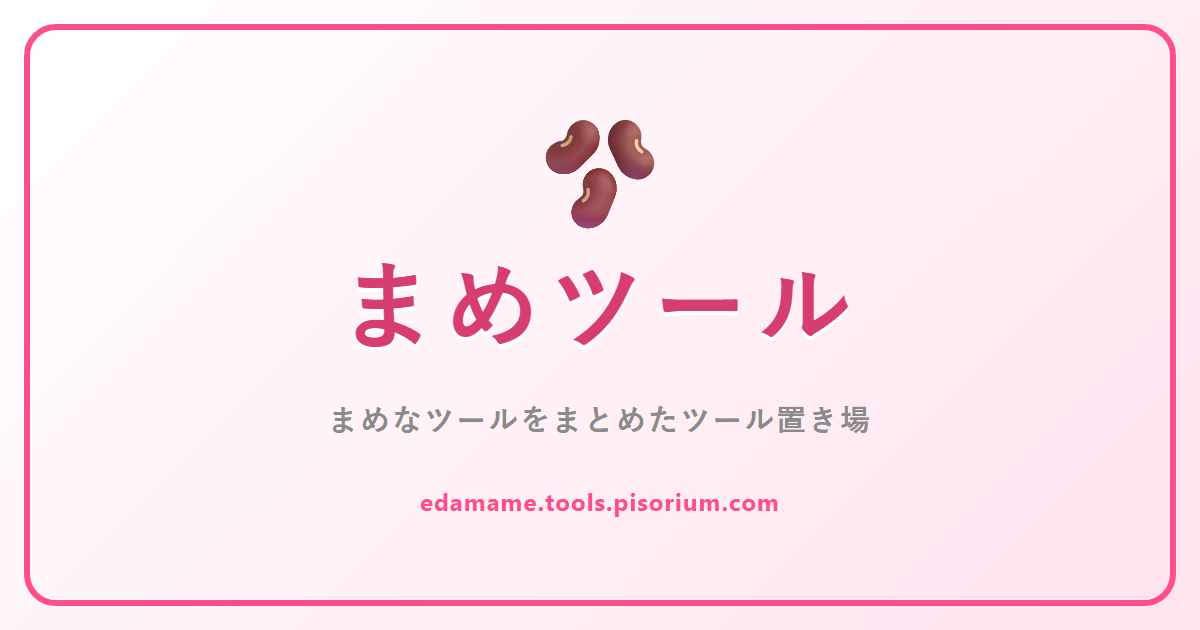
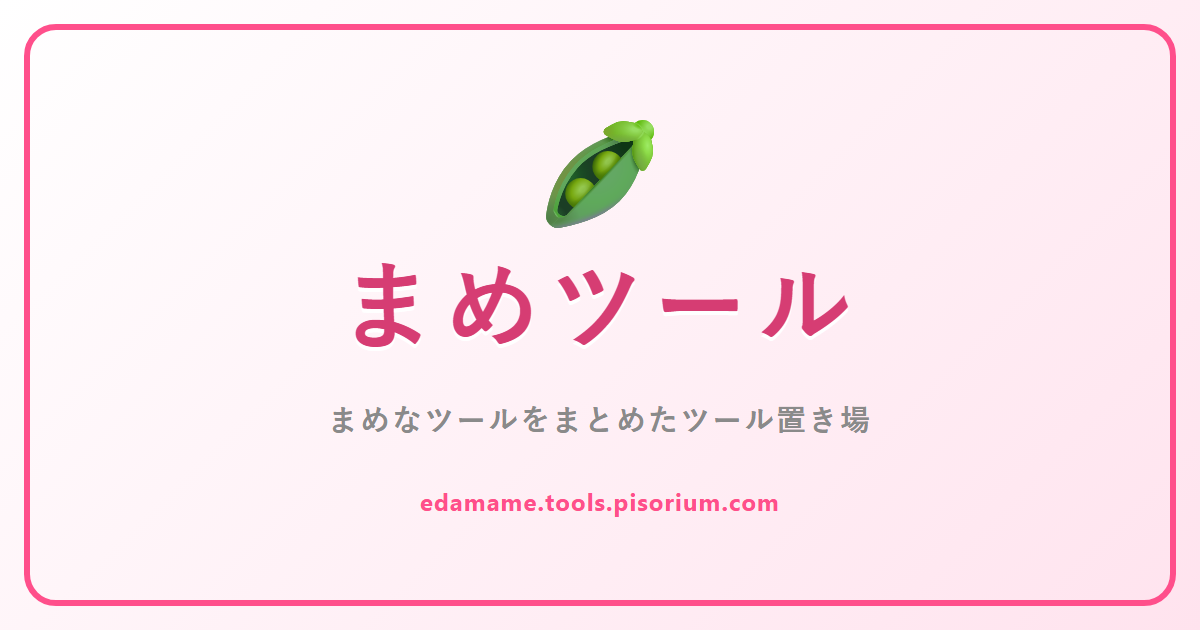
Improve mobile layout, disable pinch-zoom, restyle share image
- Hub bean icon changed to edamame (was a generic bean emoji).
- Disable pinch-zoom on mobile via viewport meta.
- Fix awkward mid-word wrapping on mobile: role composition icons
  now shrink to fit one row, and character names/placeholders
  truncate with ellipsis instead of wrapping.
- Result badge now shows job name then icon with a fixed width, so
  the icon/settings/clear buttons stay aligned across rows regardless
  of job name length (previously shifted per row).
- Removed the share text/title from the Web Share call.
- Redesigned the shareable result image: gradient background, card
  with shadow/border, role-colored accent per row, rounded job icons,
  higher resolution.

Changed region(s): [[0.4317, 0.181, 0.555, 0.3619]]

diff --git a/job-gacha/public/job-gacha/js/share.js b/job-gacha/public/job-gacha/js/share.js
@@ -9,64 +9,135 @@ function loadImage(src) {
   });
 }
 
+function roundedRectPath(ctx, x, y, w, h, r) {
+  ctx.beginPath();
+  ctx.moveTo(x + r, y);
+  ctx.arcTo(x + w, y, x + w, y + h, r);
+  ctx.arcTo(x + w, y + h, x, y + h, r);
+  ctx.arcTo(x, y + h, x, y, r);
+  ctx.arcTo(x, y, x + w, y, r);
+  ctx.closePath();
+}
+
+function drawRoundedImage(ctx, img, x, y, size, r) {
+  ctx.save();
+  roundedRectPath(ctx, x, y, size, size, r);
+  ctx.clip();
+  ctx.drawImage(img, x, y, size, size);
+  ctx.restore();
+}
+
+const ROLE_ACCENT = {
+  [ROLE.TANK]: "#3d7fd1",
+  [ROLE.HEALER]: "#45b26b",
+  [ROLE.DPS]: "#e14c5a",
+};
+
 async function buildResultCanvas(entries) {
-  const rowHeight = 64;
-  const paddingX = 32;
-  const headerHeight = 90;
-  const footerHeight = 44;
-  const width = 640;
-  const height = headerHeight + entries.length * rowHeight + footerHeight;
+  const scale = 2; // 高解像度化
+  const rowHeight = 76;
+  const cardPaddingX = 36;
+  const cardHeaderHeight = 110;
+  const cardFooterHeight = 56;
+  const margin = 28;
+  const width = 760;
+  const cardHeight = cardHeaderHeight + entries.length * rowHeight + cardFooterHeight;
+  const height = cardHeight + margin * 2;
 
   const canvas = document.createElement("canvas");
-  canvas.width = width;
-  canvas.height = height;
+  canvas.width = width * scale;
+  canvas.height = height * scale;
+  canvas.style.width = `${width}px`;
+  canvas.style.height = `${height}px`;
   const ctx = canvas.getContext("2d");
+  ctx.scale(scale, scale);
 
-  // 背景
-  ctx.fillStyle = "#fffafc";
+  // 背景(斜めグラデーション)
+  const bgGradient = ctx.createLinearGradient(0, 0, width, height);
+  bgGradient.addColorStop(0, "#ffffff");
+  bgGradient.addColorStop(1, "#ffe3ee");
+  ctx.fillStyle = bgGradient;
   ctx.fillRect(0, 0, width, height);
 
-  // ヘッダー
-  ctx.fillStyle = "#ff4f8b";
-  ctx.fillRect(0, 0, width, headerHeight);
+  // カード(白背景+ピンク枠、影付き)
+  const cardX = margin;
+  const cardY = margin;
+  const cardW = width - margin * 2;
+
+  ctx.save();
+  ctx.shadowColor = "rgba(255, 79, 139, 0.25)";
+  ctx.shadowBlur = 24;
+  ctx.shadowOffsetY = 8;
+  roundedRectPath(ctx, cardX, cardY, cardW, cardHeight, 28);
   ctx.fillStyle = "#ffffff";
-  ctx.font = "bold 28px sans-serif";
-  ctx.textBaseline = "middle";
-  ctx.fillText("ジョブガチャ 結果", paddingX, headerHeight / 2);
+  ctx.fill();
+  ctx.restore();
+
+  roundedRectPath(ctx, cardX, cardY, cardW, cardHeight, 28);
+  ctx.lineWidth = 3;
+  ctx.strokeStyle = "#ff4f8b";
+  ctx.stroke();
+
+  // ヘッダー
+  ctx.fillStyle = "#d63d73";
+  ctx.font = "bold 34px sans-serif";
+  ctx.textBaseline = "alphabetic";
+  ctx.fillText("🎲 ジョブガチャ 抽選結果", cardX + cardPaddingX, cardY + 56);
+
+  ctx.strokeStyle = "#ffe3ee";
+  ctx.lineWidth = 2;
+  ctx.beginPath();
+  ctx.moveTo(cardX + cardPaddingX, cardY + cardHeaderHeight - 12);
+  ctx.lineTo(cardX + cardW - cardPaddingX, cardY + cardHeaderHeight - 12);
+  ctx.stroke();
 
   const jobIcons = await Promise.all(
     entries.map((e) => loadImage(jobIconUrl(e.job.id)).catch(() => null))
   );
 
   entries.forEach((entry, i) => {
-    const y = headerHeight + i * rowHeight;
-    ctx.strokeStyle = "#ffe3ee";
-    ctx.lineWidth = 1;
-    ctx.beginPath();
-    ctx.moveTo(paddingX, y);
-    ctx.lineTo(width - paddingX, y);
-    ctx.stroke();
+    const rowY = cardY + cardHeaderHeight + i * rowHeight;
+    const rowCenterY = rowY + rowHeight / 2;
 
-    const iconSize = 40;
-    const iconY = y + (rowHeight - iconSize) / 2;
+    // ロールカラーのアクセントバー
+    const accent = ROLE_ACCENT[entry.job.role] || "#c9c9c9";
+    ctx.fillStyle = accent;
+    roundedRectPath(ctx, cardX + cardPaddingX, rowY + 14, 5, rowHeight - 28, 3);
+    ctx.fill();
+
+    const iconSize = 48;
+    const iconX = cardX + cardPaddingX + 20;
+    const iconY = rowCenterY - iconSize / 2;
     const icon = jobIcons[i];
     if (icon) {
-      ctx.drawImage(icon, paddingX, iconY, iconSize, iconSize);
+      drawRoundedImage(ctx, icon, iconX, iconY, iconSize, 12);
     }
 
+    const textX = iconX + iconSize + 18;
     ctx.fillStyle = "#2b2b2b";
-    ctx.font = "bold 18px sans-serif";
-    ctx.fillText(entry.character.name, paddingX + iconSize + 16, y + rowHeight / 2 - 12);
+    ctx.font = "bold 20px sans-serif";
+    ctx.fillText(entry.character.name, textX, rowCenterY - 4);
 
     ctx.fillStyle = "#8a8a8a";
-    ctx.font = "14px sans-serif";
-    ctx.fillText(`${entry.job.id} ${entry.job.nameJa}`, paddingX + iconSize + 16, y + rowHeight / 2 + 12);
+    ctx.font = "15px sans-serif";
+    ctx.fillText(entry.job.nameJa, textX, rowCenterY + 20);
+
+    if (i < entries.length - 1) {
+      ctx.strokeStyle = "#fbeef4";
+      ctx.lineWidth = 1;
+      ctx.beginPath();
+      ctx.moveTo(cardX + cardPaddingX, rowY + rowHeight);
+      ctx.lineTo(cardX + cardW - cardPaddingX, rowY + rowHeight);
+      ctx.stroke();
+    }
   });
 
-  ctx.fillStyle = "#8a8a8a";
-  ctx.font = "12px sans-serif";
+  // フッター(ブランド)
+  const footerY = cardY + cardHeaderHeight + entries.length * rowHeight + cardFooterHeight / 2;
+  ctx.fillStyle = "#c9c9c9";
+  ctx.font = "13px sans-serif";
   ctx.textAlign = "right";
-  ctx.fillText("edamame.tools.pisorium.com", width - paddingX, height - footerHeight / 2);
+  ctx.fillText("🫛 まめツール / edamame.tools.pisorium.com", cardX + cardW - cardPaddingX, footerY + 4);
   ctx.textAlign = "left";
 
   return canvas;
@@ -94,11 +165,7 @@ async function shareDrawResult(entries) {
 
   if (navigator.canShare && navigator.canShare({ files: [file] })) {
     try {
-      await navigator.share({
-        files: [file],
-        title: "ジョブガチャ結果",
-        text: "ジョブガチャで抽選した結果です",
-      });
+      await navigator.share({ files: [file] });
       return { shared: true };
     } catch (err) {
       if (err && err.name === "AbortError") return { shared: false, cancelled: true };

diff --git a/job-gacha/public/job-gacha/css/style.css b/job-gacha/public/job-gacha/css/style.css
@@ -231,6 +231,7 @@ body {
 
 .name-field {
   flex: 1;
+  min-width: 0;
   text-align: left;
   background: none;
   border: none;
@@ -239,6 +240,12 @@ body {
   flex-direction: column;
   padding: 0;
 }
+.name-field .placeholder,
+.char-name, .char-world {
+  overflow: hidden;
+  text-overflow: ellipsis;
+  white-space: nowrap;
+}
 .name-field .placeholder { color: var(--muted); }
 .char-name { font-weight: 700; font-size: 15px; }
 .char-world { font-size: 12px; color: var(--muted); }
@@ -246,8 +253,10 @@ body {
 .result-badge {
   display: flex;
   align-items: center;
+  justify-content: flex-end;
   gap: 6px;
-  min-width: 100px;
+  width: 104px;
+  flex: none;
 }
 .job-icon-img {
   width: 32px;
@@ -256,7 +265,15 @@ body {
   flex: none;
 }
 .job-icon-img-small { width: 24px; height: 24px; }
-.job-name { font-size: 12px; color: var(--muted); }
+.job-name {
+  font-size: 12px;
+  color: var(--muted);
+  width: 68px;
+  text-align: right;
+  overflow: hidden;
+  text-overflow: ellipsis;
+  white-space: nowrap;
+}
 
 .icon-btn {
   width: 32px;
@@ -382,7 +399,17 @@ body {
 .job-level { margin-left: auto; color: var(--muted); font-size: 12px; }
 
 @media (max-width: 560px) {
-  .header { flex-direction: column; }
-  .char-row { flex-wrap: wrap; }
+  body { padding: 16px 8px 32px; }
+  .header { flex-direction: column; padding: 14px 12px; gap: 12px; }
+  .role-icons { gap: 3px; }
+  .role-icon { width: 28px; height: 28px; }
+  .role-icon-img { width: 20px; height: 20px; }
+  .role-icon-corner { font-size: 7px; padding: 1px 2px; }
+  .char-row { padding: 8px 10px; gap: 8px; }
+  .result-badge { width: 84px; }
+  .job-name { width: 52px; font-size: 11px; }
+  .job-icon-img { width: 26px; height: 26px; }
   .job-grid { grid-template-columns: 1fr; }
+  .options-row { gap: 12px; font-size: 13px; }
+  .search-form-row { flex-direction: column; }
 }

diff --git a/job-gacha/public/index.html b/job-gacha/public/index.html
@@ -2,7 +2,7 @@
 <html lang="ja">
 <head>
 <meta charset="UTF-8">
-<meta name="viewport" content="width=device-width, initial-scale=1.0">
+<meta name="viewport" content="width=device-width, initial-scale=1.0, maximum-scale=1.0, user-scalable=no">
 <title>まめツール</title>
 <meta name="description" content="まめなツールをまとめたツール置き場">
 
@@ -22,7 +22,7 @@
 </head>
 <body>
 <div class="hub">
-  <div class="hub-brand">🫘</div>
+  <div class="hub-brand">🫛</div>
   <h1 class="hub-title">まめツール</h1>
   <p class="hub-subtitle">まめなツールをまとめたツール置き場</p>
 

diff --git a/job-gacha/public/job-gacha/js/ui.js b/job-gacha/public/job-gacha/js/ui.js
@@ -86,7 +86,7 @@ function renderCharacterRow(index) {
   const resultJobId = state.results[index];
   if (resultJobId) {
     const job = JOBS_BY_ID[resultJobId];
-    resultBadge.innerHTML = `<img src="${jobIconUrl(job.id)}" alt="${job.id}" class="job-icon-img"><span class="job-name">${job.nameJa}</span>`;
+    resultBadge.innerHTML = `<span class="job-name">${job.nameJa}</span><img src="${jobIconUrl(job.id)}" alt="${job.id}" class="job-icon-img">`;
   }
   row.appendChild(resultBadge);
 

diff --git a/job-gacha/public/job-gacha/index.html b/job-gacha/public/job-gacha/index.html
@@ -2,7 +2,7 @@
 <html lang="ja">
 <head>
 <meta charset="UTF-8">
-<meta name="viewport" content="width=device-width, initial-scale=1.0">
+<meta name="viewport" content="width=device-width, initial-scale=1.0, maximum-scale=1.0, user-scalable=no">
 <title>ジョブガチャ | FFXIV</title>
 <meta name="description" content="FFXIVキャラクターにランダムで戦闘ジョブを振り分けるツール">
 
